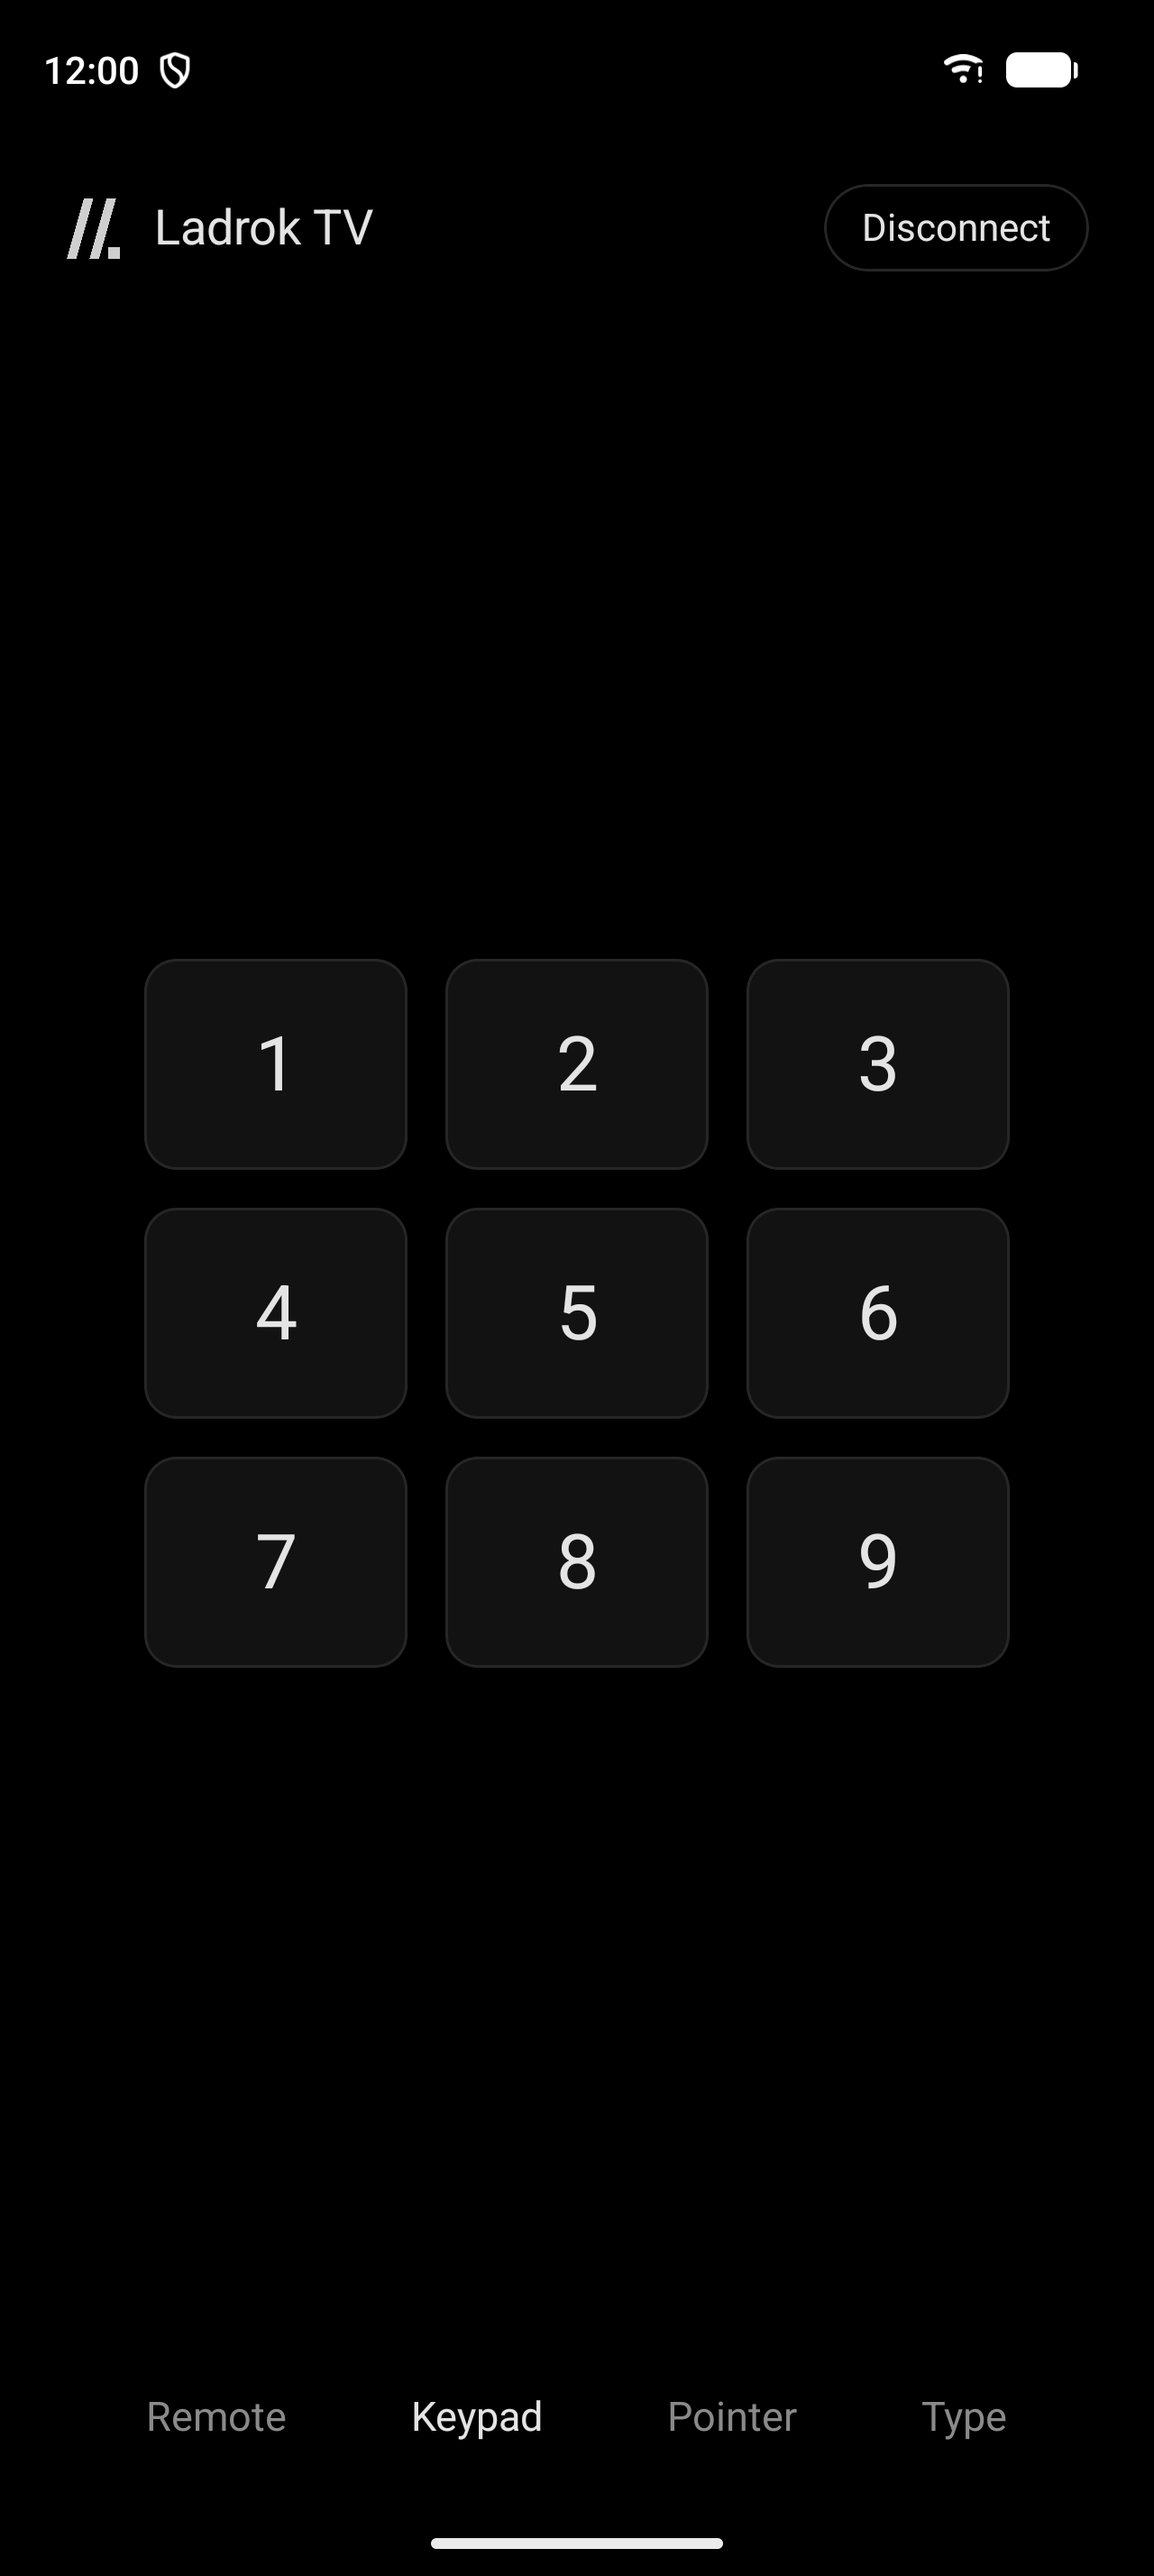
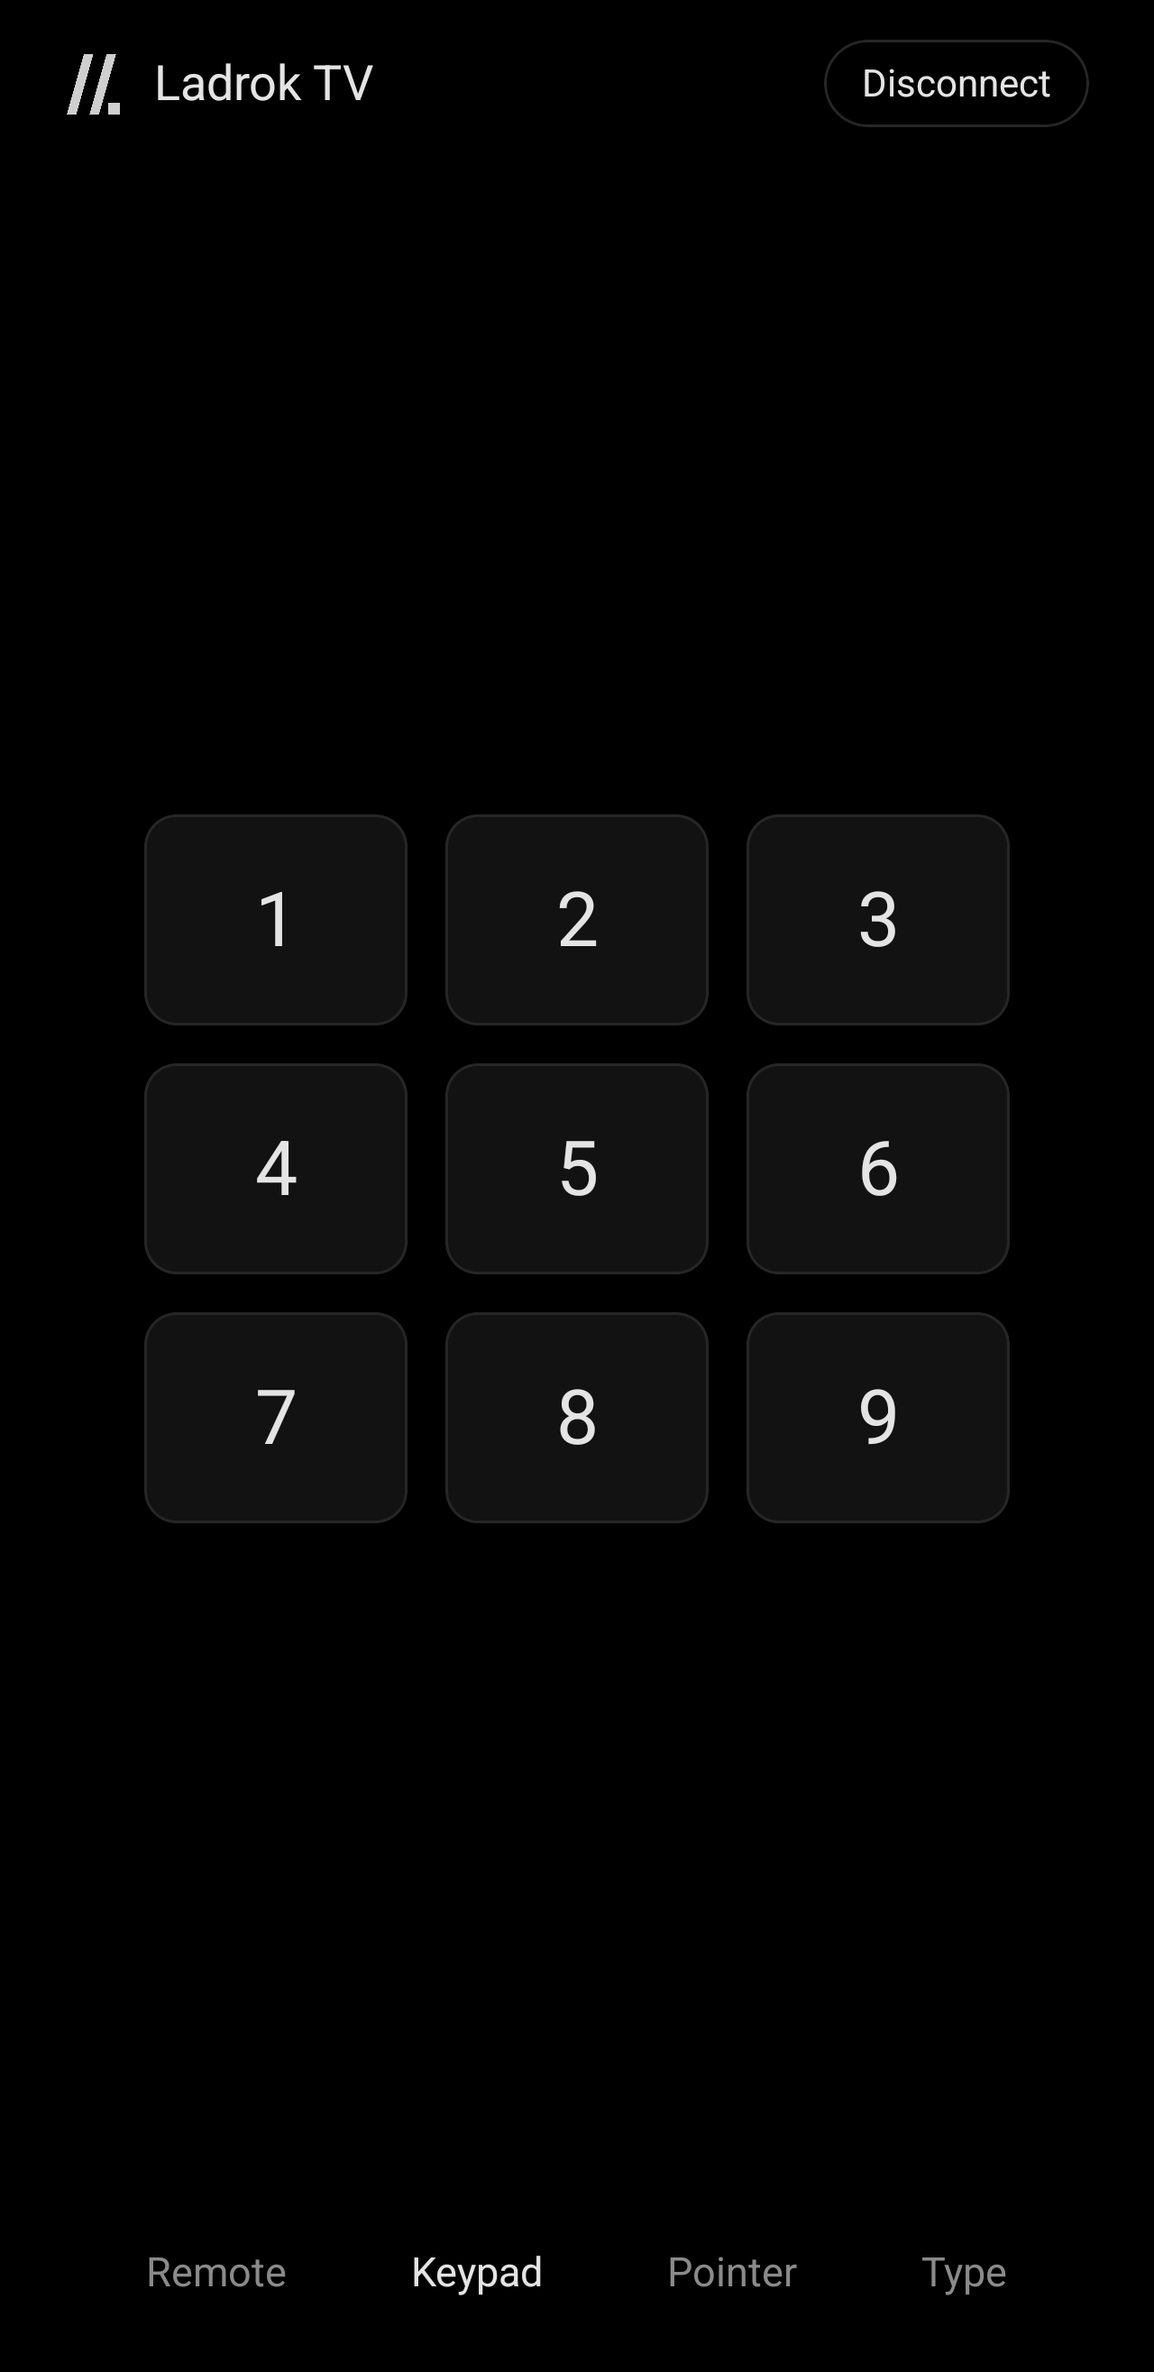
Docs: crop the screenshots and show them in the README
Claude-Session: https://claude.ai/code/session_014Tsk3VFqM7dc1okzt8U95G

diff --git a/README.md b/README.md
@@ -4,6 +4,13 @@
 
 A remote control for [Ladrok TV](https://github.com/Kordal/ladrok-tv) on your phone, over Bluetooth. The arrows and OK, Back and Home, playback and volume, the sleep timer, the Launcher's Keypad (1–9 open your apps), the Pointer (point the phone to move a mouse pointer on the TV), and Type, for search boxes. Nothing else.
 
+<p align="center">
+  <img src="docs/screenshots/remote-main.png" alt="Remote" width="200">
+  <img src="docs/screenshots/remote-keypad.png" alt="Keypad" width="200">
+  <img src="docs/screenshots/remote-pointer.png" alt="Pointer" width="200">
+  <img src="docs/screenshots/remote-type.png" alt="Type" width="200">
+</p>
+
 The phone acts as a Bluetooth keyboard and remote, so the TV sees an ordinary Bluetooth accessory. The phone is the TV's remote only while the app is open: a phone left connected would count as a keyboard, and the TV would stop showing its on-screen one.
 
 Terms are defined in [CONTEXT.md](CONTEXT.md), decisions in [docs/adr](docs/adr), the keys in [docs/protocol.md](docs/protocol.md).
